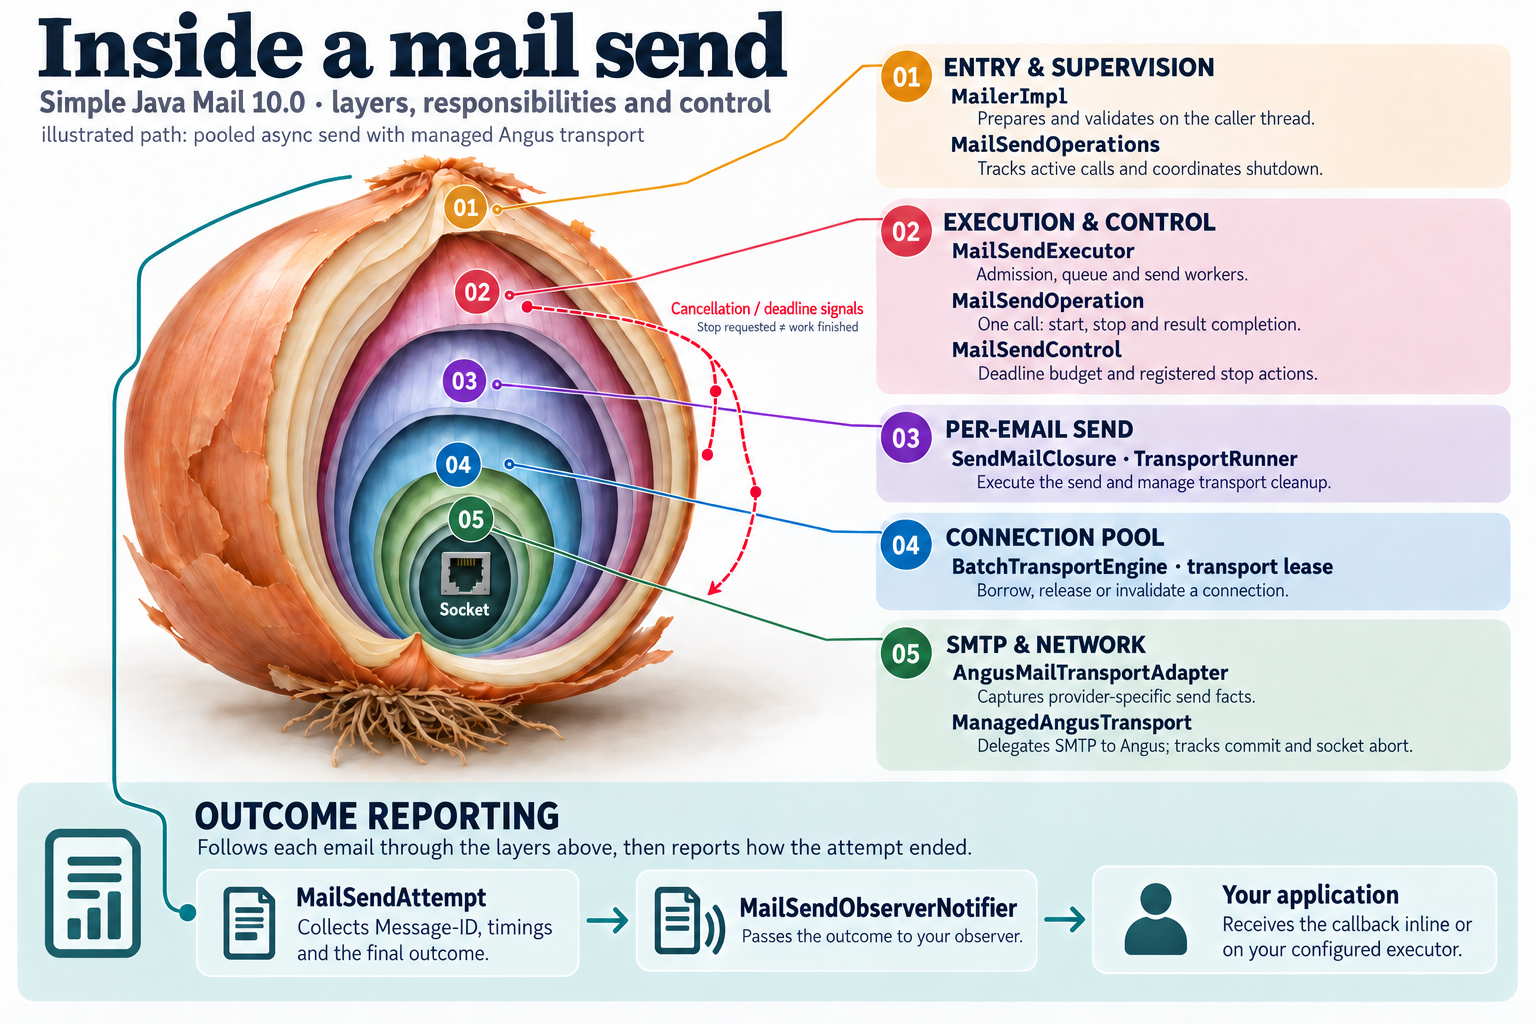
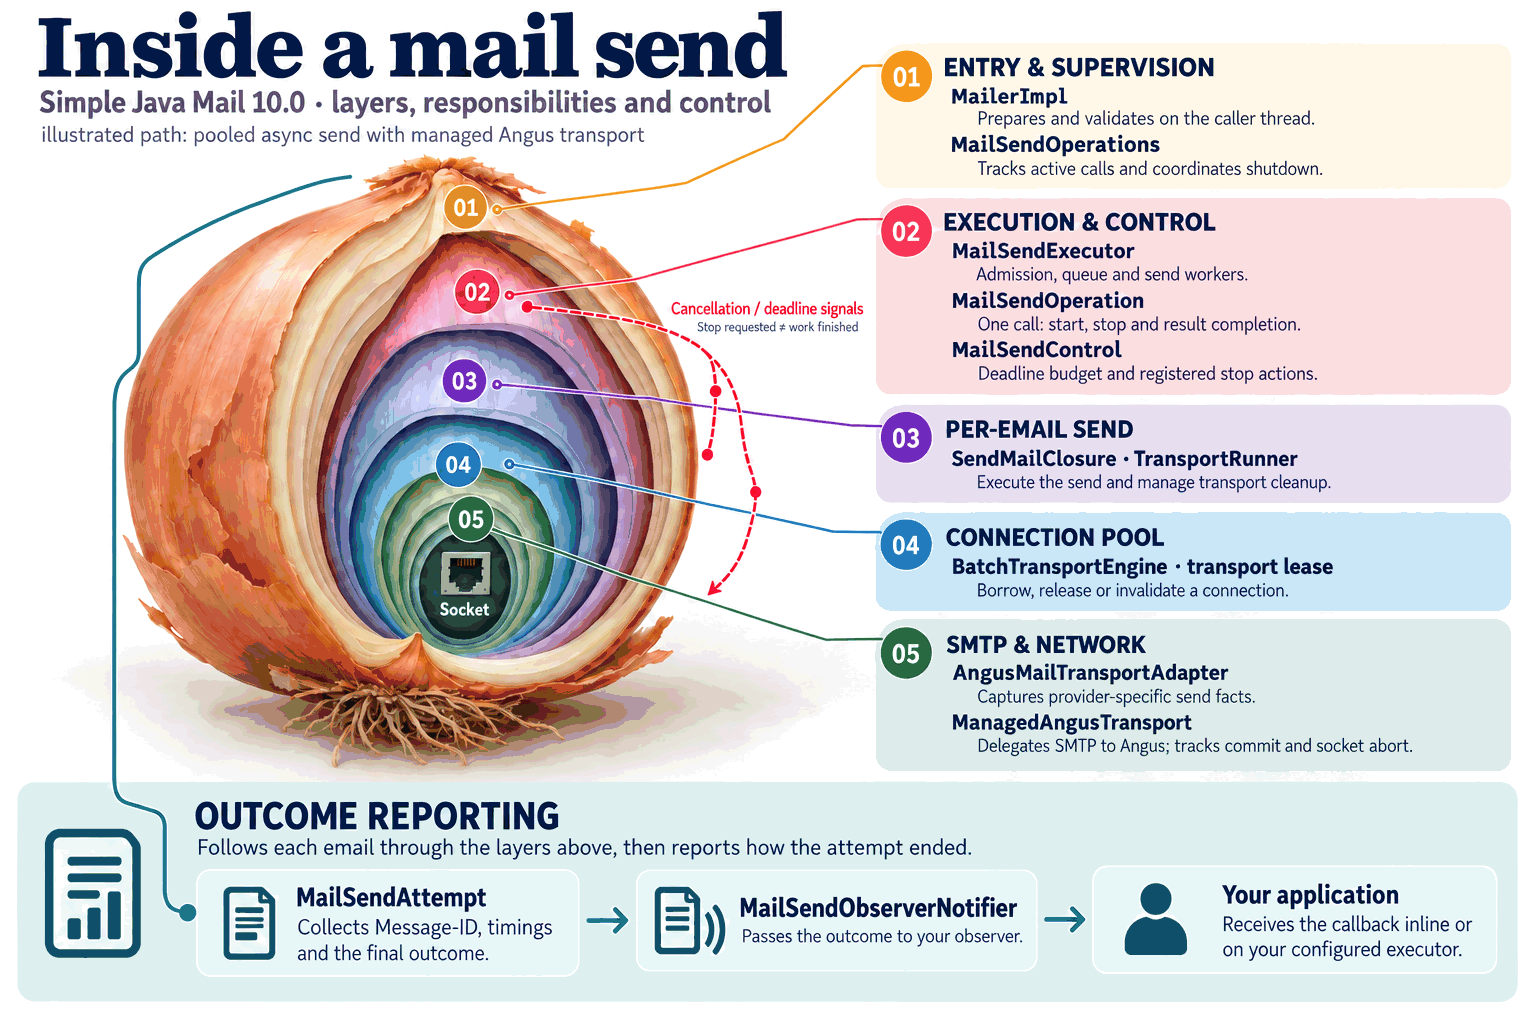
perf(assets): optimize remaining large website images

diff --git a/src/journal/2026-09-08-set-phasers-to-synchronize.md b/src/journal/2026-09-08-set-phasers-to-synchronize.md
@@ -15,7 +15,7 @@ banner-header: "AI-Assisted"
 banner-body: "This draft began as an AI-assisted outline for a future Engineering Journal article."
 ---
 
-![A retro-futurist space officer fires a beam that brings floating clocks into sync.](/assets/journal/articles/set-phasers-to-synchronize/set-phasers-to-synchronize.png)
+![A retro-futurist space officer fires a beam that brings floating clocks into sync.](/assets/journal/articles/set-phasers-to-synchronize/set-phasers-to-synchronize.jpg)
 
 I studied concurrent programming models in Computer Science at school, where I learned the basics such as latches, semaphores, barriers, but never did I think I would actually have to use this foundation in my own projects. I mean sure, everything works on threads, but the kind of work I did for my job was mostly on top of servlets with Spring or J2EE, where this kind of thing is mostly managed (don't get me started on inherited/nested ThreadLocal holders, though).
 
